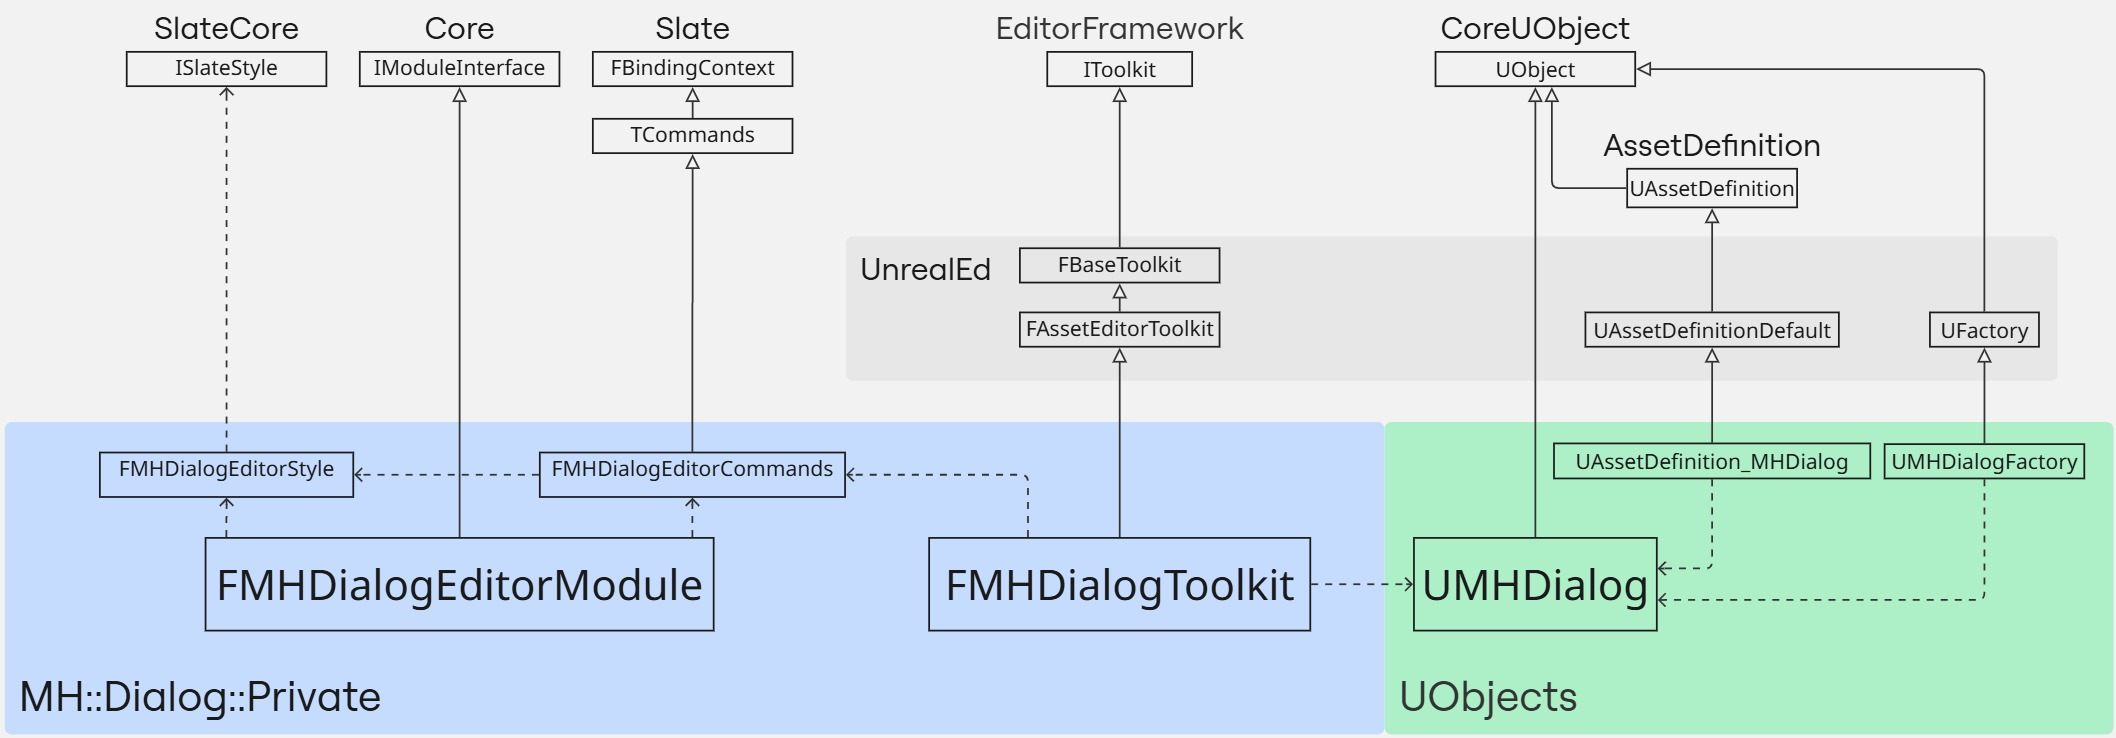
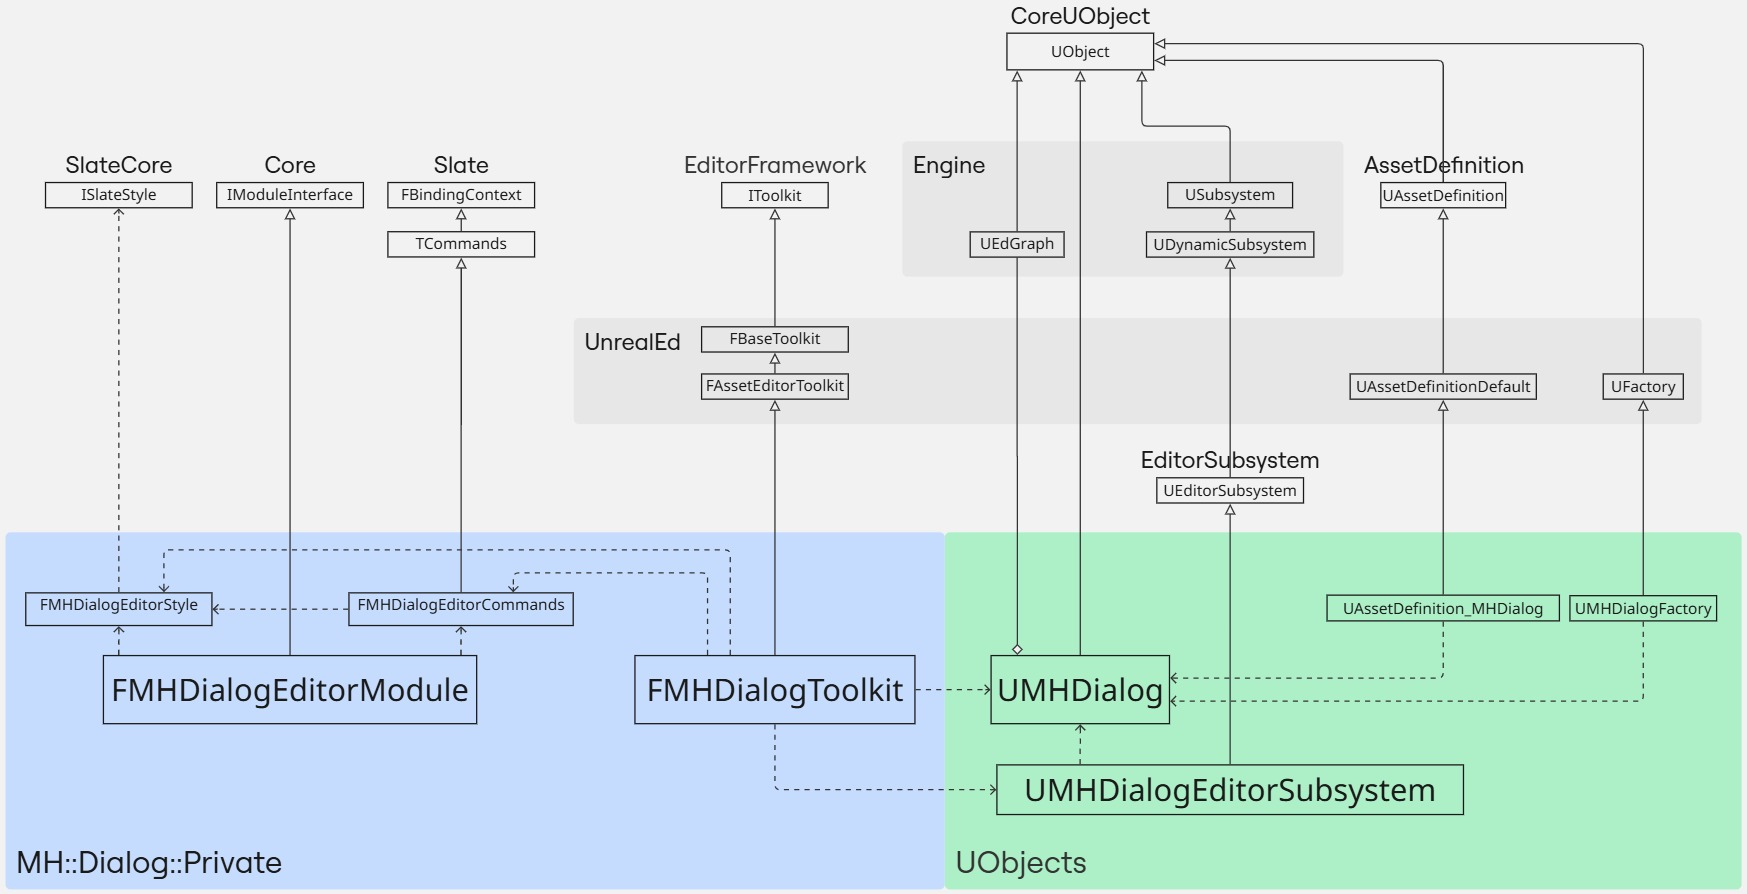
add graph tab for toolkit and subsystem for non-ui logic

diff --git a/Source/MHDialogEditor/Private/Toolkit/MHDialogToolkit.cpp b/Source/MHDialogEditor/Private/Toolkit/MHDialogToolkit.cpp
@@ -6,6 +6,7 @@
 #include "MHDialogEditorColors.h"
 #include "MHDialogEditorCommands.h"
 #include "MHDialogEditorLog.h"
+#include "MHDialogEditorSubsystem.h"
 
 #define LOCTEXT_NAMESPACE "MHDialogToolkit"
 
@@ -13,6 +14,7 @@ namespace MH::Dialog::Private
 {
 const FName FMHDialogToolkit::AppIdentifier(TEXT("MHDialogAssetEditor"));
 const FName FMHDialogToolkit::DetailsTabId(TEXT("FMHDialogToolkit_Details"));
+const FName FMHDialogToolkit::GraphTabId(TEXT("FMHDialogToolkit_Graph"));
 
 FText FMHDialogToolkit::GetBaseToolkitName() const
 {
@@ -41,6 +43,8 @@ void FMHDialogToolkit::InitDialogEditor(const EToolkitMode::Type Mode,
 	DialogAsset = Dialog;
 	check(IsValid(DialogAsset));
 
+	GEditor->GetEditorSubsystem<UMHDialogEditorSubsystem>()->InitAsset(DialogAsset);
+
 	CreateWidgets();
 	RegisterToolbar();
 	RegisterCommands();
@@ -64,12 +68,18 @@ void FMHDialogToolkit::RegisterTabSpawners(const TSharedRef<FTabManager>& InTabM
 		.SetDisplayName(LOCTEXT("Details", "Details"))
 		.SetGroup(AssetEditorTabsCategory.ToSharedRef())
 		.SetIcon(FSlateIcon(FAppStyle::GetAppStyleSetName(), "LevelEditor.Tabs.Details"));
+
+	InTabManager->RegisterTabSpawner(GraphTabId, FOnSpawnTab::CreateSP(this, &FMHDialogToolkit::SpawnTab_Graph))
+		.SetDisplayName(LOCTEXT("Graph", "Graph"))
+		.SetGroup(AssetEditorTabsCategory.ToSharedRef())
+		.SetIcon(FSlateIcon(FAppStyle::GetAppStyleSetName(), "LevelEditor.Tabs.Viewports"));
 }
 
 void FMHDialogToolkit::UnregisterTabSpawners(const TSharedRef<FTabManager>& InTabManager)
 {
 	FAssetEditorToolkit::UnregisterTabSpawners(InTabManager);
 	InTabManager->UnregisterTabSpawner(DetailsTabId);
+	InTabManager->UnregisterTabSpawner(GraphTabId);
 }
 
 void FMHDialogToolkit::CreateWidgets()
@@ -108,16 +118,27 @@ void FMHDialogToolkit::RegisterCommands()
 TSharedRef<FTabManager::FLayout> FMHDialogToolkit::CreateLayout()
 {
 	// clang-format off
-	return FTabManager::NewLayout(TEXT("Standalone_FMHDialogToolkit_v1"))
+	return FTabManager::NewLayout(TEXT("Standalone_FMHDialogToolkit_v2"))
 		->AddArea
 		(
 			FTabManager::NewPrimaryArea()->SetOrientation(Orient_Vertical)
 			->Split
 			(
-				FTabManager::NewStack()
-				->SetSizeCoefficient(0.3f)
-				->AddTab(DetailsTabId, ETabState::OpenedTab)
-				->SetHideTabWell(true)
+				FTabManager::NewSplitter()->SetOrientation(Orient_Horizontal)
+				->Split
+				(
+					FTabManager::NewStack()
+					->SetSizeCoefficient(0.7f)
+					->AddTab(GraphTabId, ETabState::OpenedTab)
+					->SetHideTabWell(true)
+				)
+				->Split
+				(
+					FTabManager::NewStack()
+					->SetSizeCoefficient(0.3f)
+					->AddTab(DetailsTabId, ETabState::OpenedTab)
+					->SetHideTabWell(true)
+				)
 			)
 		);
 	// clang-format on
@@ -136,6 +157,22 @@ TSharedRef<SDockTab> FMHDialogToolkit::SpawnTab_Details(const FSpawnTabArgs& Arg
 			[
 				DialogAssetDetailsView.ToSharedRef()
 			]
+		];
+	// clang-format on
+}
+
+TSharedRef<SDockTab> FMHDialogToolkit::SpawnTab_Graph(const FSpawnTabArgs& Args)
+{
+	FGraphAppearanceInfo AppearanceInfo;
+	AppearanceInfo.CornerText = LOCTEXT("GraphCornerText", "DIALOGUE SYSTEM");
+
+	// clang-format off
+	return SNew(SDockTab)
+		.Label(LOCTEXT("GraphLabel", "Dialogue Graph"))
+		[
+			SNew(SGraphEditor)
+			.Appearance(AppearanceInfo)
+			.GraphToEdit(DialogAsset->Graph)
 		];
 	// clang-format on
 }

diff --git a/Source/MHDialogEditor/Private/MHDialogEditorSubsystem.cpp b/Source/MHDialogEditor/Private/MHDialogEditorSubsystem.cpp
@@ -1,0 +1,20 @@
+// created by MetalHeart
+
+#include "MHDialogEditorSubsystem.h"
+
+#include "EdGraph/EdGraph.h"
+#include "EdGraph/EdGraphSchema.h"
+#include "Kismet2/BlueprintEditorUtils.h"
+#include "MHDialog.h"
+
+void UMHDialogEditorSubsystem::InitAsset(UMHDialog* Asset) const
+{
+	if (!IsValid(Asset->Graph))
+	{
+		Asset->Graph = FBlueprintEditorUtils::CreateNewGraph(Asset,	 //
+															 NAME_None,
+															 UEdGraph::StaticClass(),
+															 UEdGraphSchema::StaticClass());
+		Asset->Graph->GetSchema()->CreateDefaultNodesForGraph(*Asset->Graph);
+	}
+}

diff --git a/Source/MHDialogEditor/Private/Toolkit/MHDialogToolkit.h b/Source/MHDialogEditor/Private/Toolkit/MHDialogToolkit.h
@@ -32,6 +32,7 @@ class FMHDialogToolkit final : public FAssetEditorToolkit
   private:
 	static const FName AppIdentifier;
 	static const FName DetailsTabId;
+	static const FName GraphTabId;
 
 	TObjectPtr<UMHDialog> DialogAsset;
 
@@ -42,6 +43,7 @@ class FMHDialogToolkit final : public FAssetEditorToolkit
 	void RegisterCommands();
 	TSharedRef<FTabManager::FLayout> CreateLayout();
 	TSharedRef<SDockTab> SpawnTab_Details(const FSpawnTabArgs& Args);
+	TSharedRef<SDockTab> SpawnTab_Graph(const FSpawnTabArgs& Args);
 	TSharedRef<IDetailsView> CreateDetailsView();
 
 	void Undo();

diff --git a/Source/MHDialog/MHDialog.Build.cs b/Source/MHDialog/MHDialog.Build.cs
@@ -38,13 +38,17 @@ public class MHDialog : ModuleRules
 				// ... add private dependencies that you statically link with here ...	
 			}
 			);
-		
-		
-		DynamicallyLoadedModuleNames.AddRange(
+
+        DynamicallyLoadedModuleNames.AddRange(
 			new string[]
 			{
 				// ... add any modules that your module loads dynamically here ...
 			}
 			);
-	}
+
+        if (Target.bBuildEditor == true)
+        {
+            PrivateDependencyModuleNames.Add("Engine");
+        }
+    }
 }

diff --git a/Source/MHDialogEditor/Private/MHDialogEditorSubsystem.h b/Source/MHDialogEditor/Private/MHDialogEditorSubsystem.h
@@ -1,0 +1,23 @@
+// created by MetalHeart
+
+#pragma once
+
+#include "CoreMinimal.h"
+#include "EditorSubsystem.h"
+
+#include "MHDialogEditorSubsystem.generated.h"
+
+class UMHDialog;
+
+/**
+ * The subsystem is meant to hold any editor operations that are not UI related (those are
+ * handled by the toolkit)
+ */
+UCLASS()
+class UMHDialogEditorSubsystem final : public UEditorSubsystem
+{
+	GENERATED_BODY()
+
+  public:
+	void InitAsset(UMHDialog* Asset) const;
+};

diff --git a/Source/MHDialogEditor/MHDialogEditor.Build.cs b/Source/MHDialogEditor/MHDialogEditor.Build.cs
@@ -43,6 +43,7 @@ public class MHDialogEditor : ModuleRules
                 "UnrealEd",
                 "AssetDefinition",
                 "Engine",
+                "EditorSubsystem",
 				// ... add private dependencies that you statically link with here ...	
 			}
 			);

diff --git a/Source/MHDialog/Public/MHDialog.h b/Source/MHDialog/Public/MHDialog.h
@@ -16,4 +16,12 @@ class MHDIALOG_API UMHDialog : public UObject
 
   public:
 	FText GetTopic() const { return Topic; }
+
+#if WITH_EDITORONLY_DATA
+
+	/** Graph for editor*/
+	UPROPERTY()
+	TObjectPtr<class UEdGraph> Graph;
+
+#endif
 };
